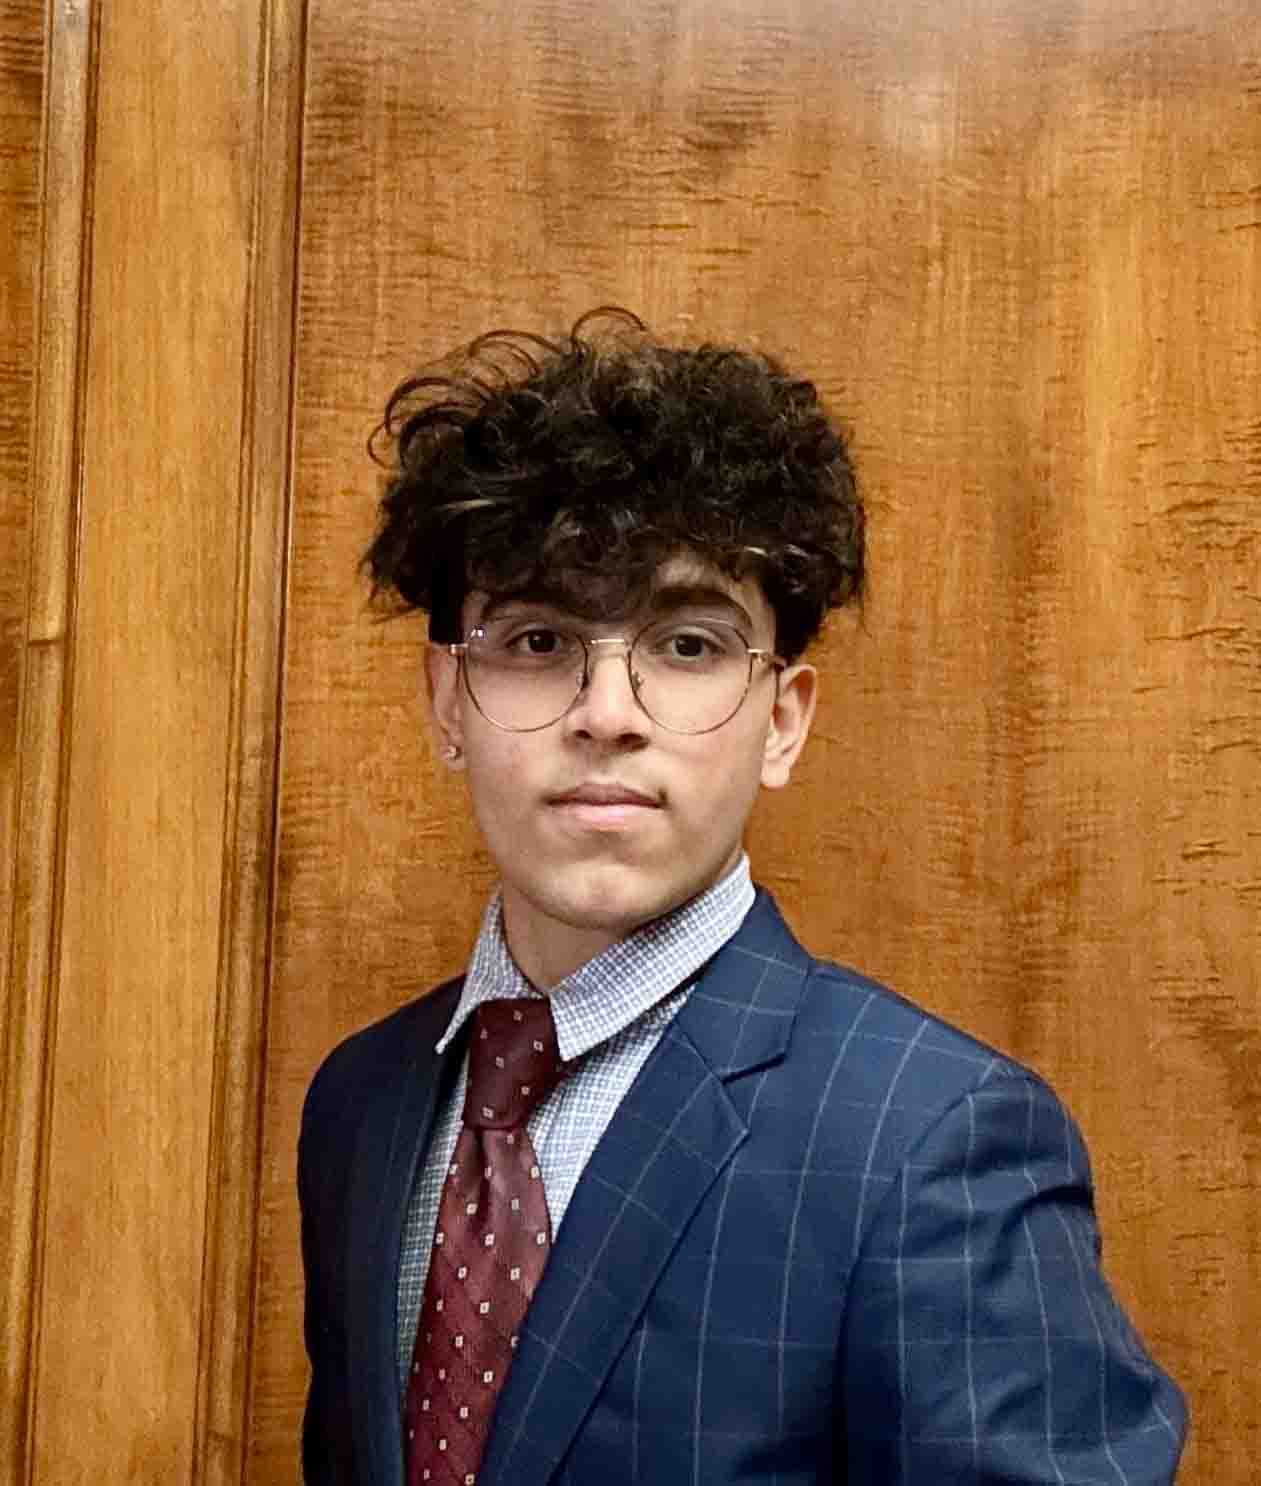
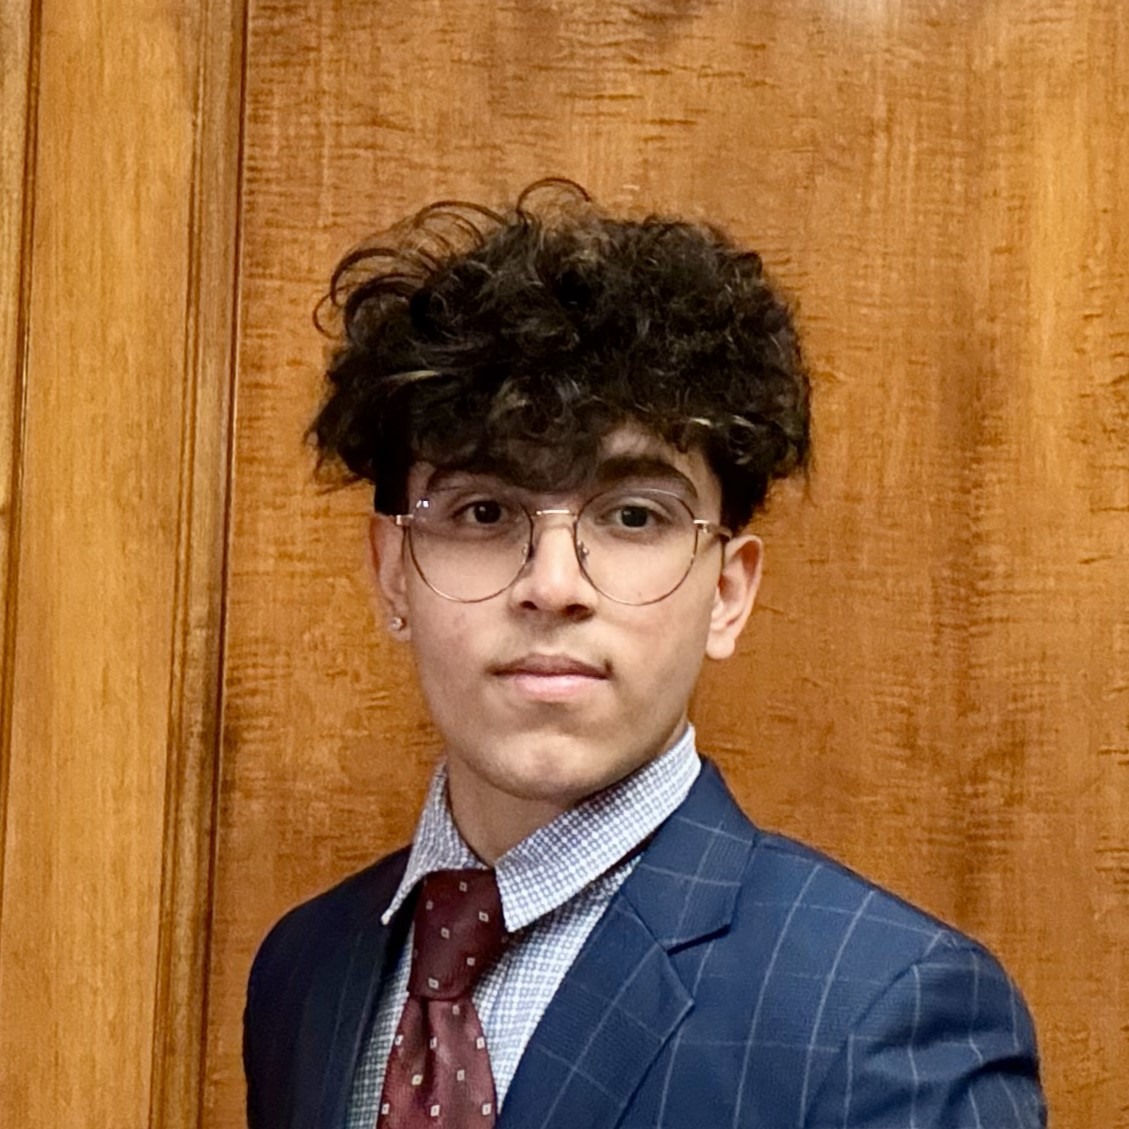
fix images and add more team memebrs

diff --git a/modules/TeamData/2025.ts b/modules/TeamData/2025.ts
@@ -6,7 +6,7 @@ export const data = [
                 name: "Nancy Zhang",
                 position: "Co-Director",
                 funFact: "I raise chickens!",
-                photo: "/team/2025/NancyZhang.jpg",
+                photo: "/team/2025/NancyZhang.jpeg",
                 emoji: "🦭"
             },
             {
@@ -26,7 +26,7 @@ export const data = [
                 name: "Timothy Gonzalez",
                 position: "Systems Lead",
                 funFact: "I have two cats who like to play fetch",
-                photo: "/team/2025/TimothyGonzalez.jpg",
+                photo: "/team/2025/TimothyGonzalez.png",
                 emoji: "🙂"
             },
             {
@@ -34,7 +34,7 @@ export const data = [
                 position: "API Lead",
                 funFact:
                     "I have a permanent scar on my thumb from when I stabbed myself with scissors trying to open my Christmas gift when I was 4",
-                photo: "/team/2025/AlexYang.jpg",
+                photo: "/team/2025/AlexYang.jpeg",
                 emoji: "🤕"
             },
             {
@@ -48,7 +48,7 @@ export const data = [
                 name: "Ananya Anand",
                 position: "API",
                 funFact: "I like to eat cucumbers with ketchup.",
-                photo: "/team/2025/AnanyaAnand.jpg",
+                photo: "/team/2025/AnanyaAnand.png",
                 emoji: "🤟"
             },
             {
@@ -63,14 +63,14 @@ export const data = [
                 name: "Aditya Kshirsagar",
                 position: "Android Lead",
                 funFact: "I am a terrible swimmer!",
-                photo: "/team/2025/AdityaKshirsagar.jpg",
+                photo: "/team/2025/AdityaKshirsagar.jpeg",
                 emoji: "🤐"
             },
             {
                 name: "Aryan Bahl",
                 position: "Android",
                 funFact: "I ran a half marathon",
-                photo: "/team/2025/AryanBahl.jpg",
+                photo: "/team/2025/AryanBahl.jpeg",
                 emoji: "👺"
             },
             {
@@ -92,7 +92,7 @@ export const data = [
                 position: "iOS Lead",
                 funFact:
                     "I was on track to go to Olympic training camp for skiing until I injured my knee.",
-                photo: "/team/2025/AnushkaSankaran.jpg",
+                photo: "/team/2025/AnushkaSankaran.jpeg",
                 emoji: "🧸"
             },
             {
@@ -107,49 +107,49 @@ export const data = [
                 position: "iOS",
                 funFact:
                     "I can make very accurate monkey and goose noises on command",
-                photo: "/team/2025/NathanWang.jpg",
+                photo: "/team/2025/NathanWang.jpeg",
                 emoji: "😹"
             },
             {
                 name: "Nicole Hu",
                 position: "iOS",
                 funFact: "I'm Canadian!",
-                photo: "/team/2025/NicoleHu.jpg",
+                photo: "/team/2025/NicoleHu.jpeg",
                 emoji: "🧘♀"
             },
             {
                 name: "Yash Jagtap",
                 position: "iOS",
                 funFact: "I sleep talk and sleep walk!",
-                photo: "/team/2025/YashJagtap.jpg",
+                photo: "/team/2025/YashJagtap.jpeg",
                 emoji: "🤯"
             },
             {
                 name: "Jacob Edley",
                 position: "Web Lead",
                 funFact: "I've played clarinet for more than 9 years!",
-                photo: "/team/2025/JacobEdley.jpg",
+                photo: "/team/2025/JacobEdley.jpeg",
                 emoji: "🦉"
             },
             {
                 name: "Becky Blake",
                 position: "Web",
                 funFact: "I had a goldfish that lived for 8 years",
-                photo: "/team/2025/BeckyBlake.jpg",
+                photo: "/team/2025/BeckyBlake.jpeg",
                 emoji: "🧋"
             },
             {
                 name: "Miguel Aenlle",
                 position: "Web",
                 funFact: "I've been to 15 National Parks so far!",
-                photo: "/team/2025/MiguelAenlle.jpg",
+                photo: "/team/2025/MiguelAenlle.png",
                 emoji: "🧑💻"
             },
             {
                 name: "Taran Polavarapu",
                 position: "Web",
                 funFact: "My nickname is Rex 🦖",
-                photo: "/team/2025/TaranPolavarapu.jpg",
+                photo: "/team/2025/TaranPolavarapu.png",
                 emoji: "🥱"
             }
         ]
@@ -158,25 +158,32 @@ export const data = [
         teamName: "Experience",
         teamMembers: [
             {
+                name: "Angelina Deol",
+                position: "Experience",
+                funFact: "I still play Papa's Taco Mia when I'm bored",
+                photo: "/team/2025/AngelinaDeol.jpg",
+                emoji: "💃"
+            },
+            {
                 name: "Zoeya Khan",
                 position: "Experience",
                 funFact:
                     "A fun fact about me is that I have hiked on a volcano",
-                photo: "/team/2025/ZoeyaKhan.jpg",
+                photo: "/team/2025/ZoeyaKhan.jpeg",
                 emoji: "🤠"
             },
             {
                 name: "Claire Qin",
                 position: "Experience",
                 funFact: "I can name any Taylor Swift song in under 5 seconds.",
-                photo: "/team/2025/ClaireQin.jpg",
+                photo: "/team/2025/ClaireQin.jpeg",
                 emoji: "🥹"
             },
             {
                 name: "Pritika Aggarwal",
                 position: "Experience",
                 funFact: "I taught my cat to play fetch and hide-and-seek!",
-                photo: "/team/2025/PritikaAggarwal.jpg",
+                photo: "/team/2025/PritikaAggarwal.jpeg",
                 emoji: "😸"
             },
             {
@@ -184,7 +191,7 @@ export const data = [
                 position: "Experience",
                 funFact:
                     "I could sing Mozart's Queen of the Night only before puberty hit",
-                photo: "/team/2025/KevinHuang.jpg",
+                photo: "/team/2025/KevinHuang.jpeg",
                 emoji: "🧐"
             },
             {
@@ -192,7 +199,7 @@ export const data = [
                 position: "Experience",
                 funFact:
                     "My favorite show is Survivor and I've seen all 47 seasons (many more than once 😭)",
-                photo: "/team/2025/ColeJordan.jpg",
+                photo: "/team/2025/ColeJordan.png",
                 emoji: "🤩"
             },
             {
@@ -200,14 +207,14 @@ export const data = [
                 position: "Experience",
                 funFact:
                     "I have a febreze collection! (Ocean scent is my favorite)",
-                photo: "/team/2025/VanishaJanaki.jpg",
+                photo: "/team/2025/VanishaJanaki.jpeg",
                 emoji: "🫧"
             },
             {
                 name: "Chetan Boddeti",
                 position: "Experience",
                 funFact: "I have an addiction to chocolate ",
-                photo: "/team/2025/ChetanBoddeti.jpg",
+                photo: "/team/2025/ChetanBoddeti.jpeg",
                 emoji: "😵"
             },
             {
@@ -222,7 +229,7 @@ export const data = [
                 name: "Ashley Lee",
                 position: "Experience",
                 funFact: "im a hamster enthusiast B)",
-                photo: "/team/2025/AshleyLee.jpg",
+                photo: "/team/2025/AshleyLee.jpeg",
                 emoji: "💀"
             },
             {
@@ -230,7 +237,7 @@ export const data = [
                 position: "Experience",
                 funFact:
                     "I stayed at the same hotel as Steph Curry when I visited Shanghai",
-                photo: "/team/2025/SherryLong.jpg",
+                photo: "/team/2025/SherryLong.jpeg",
                 emoji: "🐿"
             }
         ]
@@ -239,11 +246,25 @@ export const data = [
         teamName: "Design",
         teamMembers: [
             {
+                name: "Jessica He",
+                position: "Design Lead",
+                funFact: "I'm always sick :(",
+                photo: "/team/2025/JessicaHe.jpg",
+                emoji: "🧌"
+            },
+            {
+                name: "Emily Chen",
+                position: "Design Lead",
+                funFact: "I have bad coffee addiction",
+                photo: "/team/2025/EmilyChen.jpeg",
+                emoji: "🤍"
+            },
+            {
                 name: "Shivam Patel",
                 position: "Design",
                 funFact:
                     "I went on a three state road trip last summer with my cousin! I visited Memphis TN, Little Rock AR, and Dallas TX!",
-                photo: "/team/2025/ShivamPatel.jpg",
+                photo: "/team/2025/ShivamPatel.png",
                 emoji: "😤"
             },
             {
@@ -258,7 +279,7 @@ export const data = [
                 position: "Design",
                 funFact:
                     "I crochet a lot and like making my own clothes and plushies :D",
-                photo: "/team/2025/RachelMadamba.jpg",
+                photo: "/team/2025/RachelMadamba.jpeg",
                 emoji: "🦈"
             },
             {
@@ -272,7 +293,7 @@ export const data = [
                 name: "Lily Ge",
                 position: "Design",
                 funFact: "I love taking planned naps",
-                photo: "/team/2025/LilyGe.jpg",
+                photo: "/team/2025/LilyGe.jpeg",
                 emoji: "🤗"
             },
             {
@@ -293,7 +314,7 @@ export const data = [
                 name: "Jun-Ha Kim",
                 position: "Design",
                 funFact: "I love golfing on the Illini Orange and Blue Course!",
-                photo: "/team/2025/Jun-HaKim.jpg",
+                photo: "/team/2025/Jun-HaKim.jpeg",
                 emoji: "🫥"
             }
         ]
@@ -304,7 +325,8 @@ export const data = [
             {
                 name: "Hela Kasibhotla",
                 position: "Marketing Lead",
-                funFact: "I went to high school next to the most allegator infested lake in the country",
+                funFact:
+                    "I went to high school next to the most allegator infested lake in the country",
                 photo: "/team/2025/HelaKasibhotla.jpg",
                 emoji: "😭"
             },
@@ -333,28 +355,28 @@ export const data = [
                 name: "Calista Gunawan",
                 position: "Marketing",
                 funFact: "I love dad jokes",
-                photo: "/team/2025/CalistaGunawan.jpg",
+                photo: "/team/2025/CalistaGunawan.jpeg",
                 emoji: "😋"
             },
             {
                 name: "Mayumi Suzue-Pan",
                 position: "Marketing",
                 funFact: "I figure skate!",
-                photo: "/team/2025/MayumiSuzue-Pan.jpg",
+                photo: "/team/2025/MayumiSuzue-Pan.jpeg",
                 emoji: "😤"
             },
             {
                 name: "Sarah Xu",
                 position: "Marketing",
                 funFact: "I used to figure skate for 6 years!",
-                photo: "/team/2025/SarahXu.jpg",
+                photo: "/team/2025/SarahXu.png",
                 emoji: "🦦"
             },
             {
                 name: "Neha Panyala",
                 position: "Marketing",
                 funFact: "I play the double bass!",
-                photo: "/team/2025/NehaPanyala.jpg",
+                photo: "/team/2025/NehaPanyala.jpeg",
                 emoji: "🧘♀"
             }
         ]
@@ -365,9 +387,17 @@ export const data = [
             {
                 name: "Divya Koya",
                 position: "Outreach Lead",
-                funFact: "I can't sleep unless my shirt is tucked into my pants",
+                funFact:
+                    "I can't sleep unless my shirt is tucked into my pants",
                 photo: "/team/2025/DivyaKoya.jpg",
                 emoji: "😉"
+            },
+            {
+                name: "Divya Machineni",
+                position: "Outreach Lead",
+                funFact: "I have an unhealthy obsession with Tollywood and brownies!",
+                photo: "/team/2025/DivyaMachineni.png",
+                emoji: "🥳"
             },
             {
                 name: "Naomi Lin",
@@ -381,14 +411,14 @@ export const data = [
                 name: "Donovan Hopkins",
                 position: "Outreach",
                 funFact: "I have a parakeet named Melo",
-                photo: "/team/2025/DonovanHopkins.jpg",
+                photo: "/team/2025/DonovanHopkins.png",
                 emoji: "😊"
             },
             {
                 name: "Cynthia Choi",
                 position: "Outreach",
                 funFact: "I just built my own (custom) keyboard!",
-                photo: "/team/2025/CynthiaChoi.jpg",
+                photo: "/team/2025/CynthiaChoi.jpeg",
                 emoji: "🕺🏻"
             },
             {
@@ -403,14 +433,14 @@ export const data = [
                 position: "Outreach",
                 funFact:
                     "I'm a huge Mario fan and have a Koopa Troopa tattoo on my left ankle",
-                photo: "/team/2025/LeorPorat.jpg",
+                photo: "/team/2025/LeorPorat.png",
                 emoji: "😵💫"
             },
             {
                 name: "Bhavyaa Chauhan",
                 position: "Outreach",
                 funFact: 'I know "Baby" by Justin Bieber by heart',
-                photo: "/team/2025/BhavyaaChauhan.jpg",
+                photo: "/team/2025/BhavyaaChauhan.jpeg",
                 emoji: "😁"
             }
         ]

diff --git a/modules/TeamData.ts b/modules/TeamData.ts
@@ -3,5 +3,5 @@ import { data as data2025 } from "./TeamData/2025";
 
 export const data = {
     "2024": data2024,
-    "2025": data2025,
-}
+    "2025": data2025
+};
